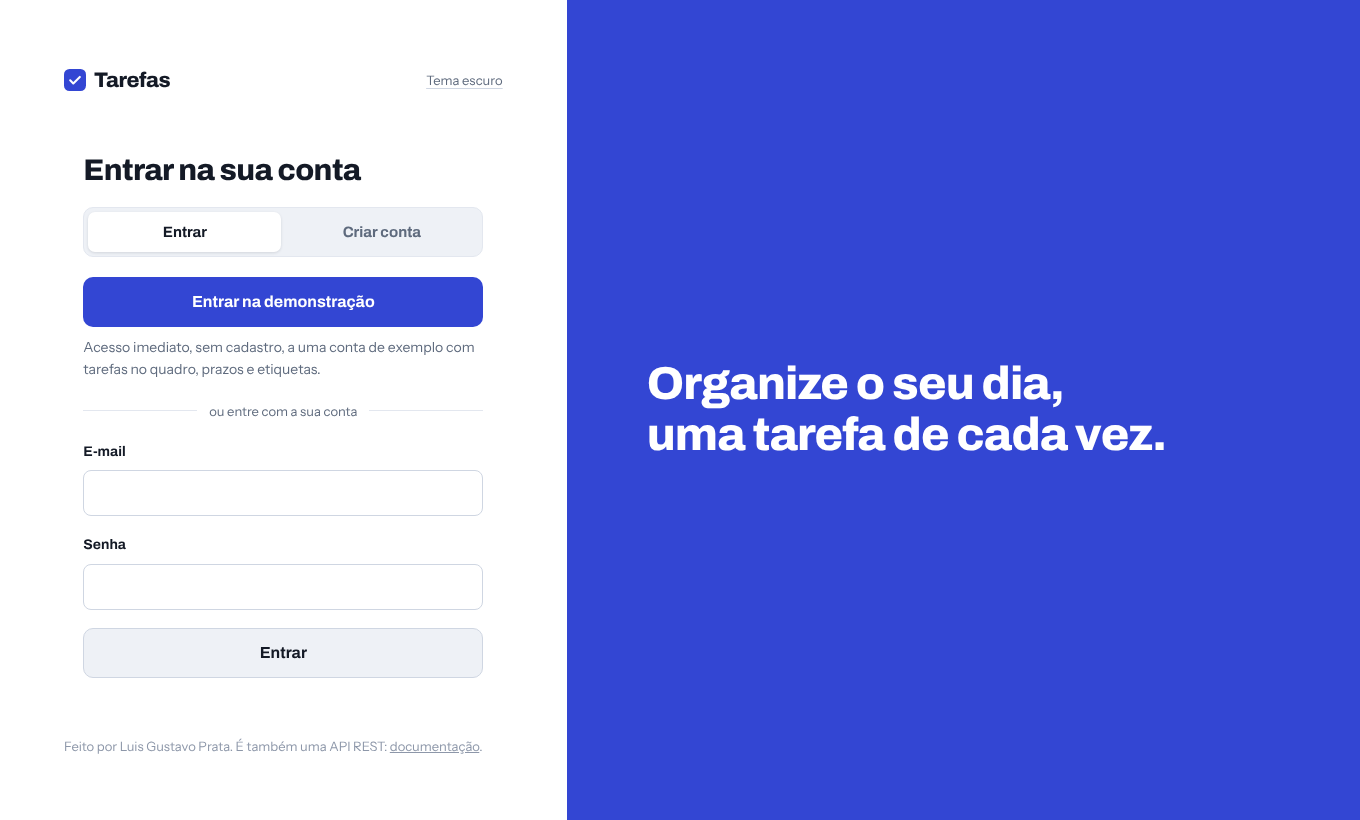
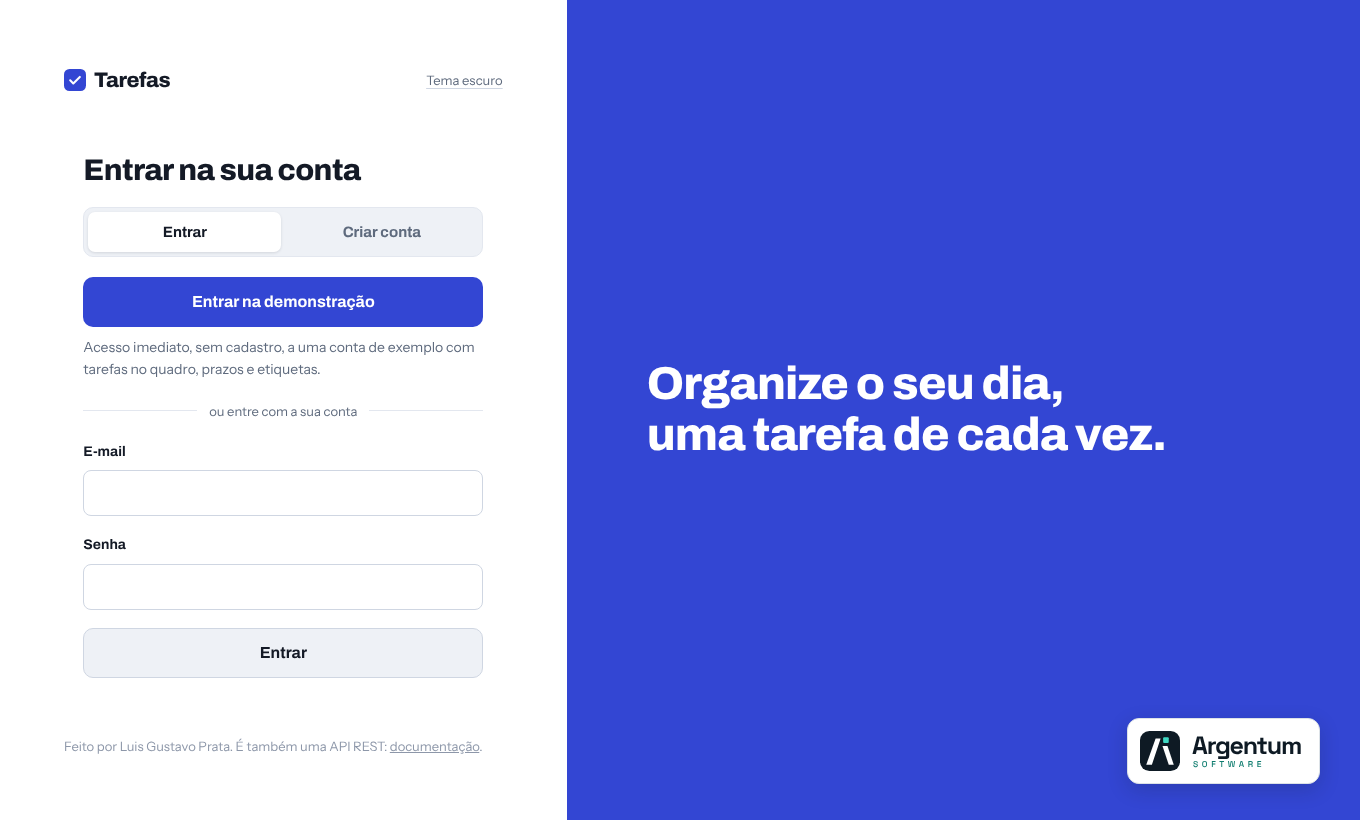
Entrada: marca Argentum Software no canto inferior direito
Versão clara no tema claro e versão escura no tema escuro.

Claude-Session: https://claude.ai/code/session_01LiHwS4HZUZgBoyyaKq9JBM

Changed region(s): [[0.8029, 0.8537, 0.9882, 0.9756]]

diff --git a/app/static/app.css b/app/static/app.css
@@ -157,6 +157,28 @@ svg { flex: none; width: 16px; height: 16px; }
   display: flex; flex-direction: column; justify-content: center; gap: 28px;
 }
 :root[data-theme="dark"] .auth__right { background: #1b2565; }
+
+/* Marca Argentum Software no canto inferior direito */
+.auth { position: relative; }
+.argentum {
+  position: absolute; right: clamp(20px, 3vw, 40px); bottom: clamp(20px, 3vw, 36px);
+  display: inline-flex; align-items: center; gap: 12px; padding: 12px 18px 12px 12px;
+  border-radius: 12px; font-family: "Space Grotesk", var(--text);
+  /* versão clara */
+  background: #ffffff; border: 1px solid #dce2e7; color: #0e1a24;
+  box-shadow: 0 6px 20px rgba(14, 26, 36, 0.18);
+}
+.argentum__icon { width: 40px; height: 40px; flex: none; }
+.argentum__tile { fill: #0e1a24; }
+.argentum__leg { fill: #ffffff; }
+.argentum__pixel { fill: #3fd8c2; }
+.argentum__words { display: grid; gap: 3px; }
+.argentum__name { font-size: 25px; font-weight: 700; letter-spacing: -0.05em; line-height: 0.9; }
+.argentum__sub { font-size: 8.5px; font-weight: 500; letter-spacing: 0.42em; line-height: 1; color: #0e7c6e; padding-left: 1px; }
+/* versão escura: sem o quadrado, o A fica direto no fundo grafite */
+:root[data-theme="dark"] .argentum { background: #0e1a24; border-color: #22313f; color: #ffffff; box-shadow: 0 6px 20px rgba(0, 0, 0, 0.35); }
+:root[data-theme="dark"] .argentum__tile { fill: none; }
+:root[data-theme="dark"] .argentum__sub { color: #3fd8c2; }
 .auth__slogan { max-width: 22ch; text-wrap: balance; color: #fff; font-family: var(--display); font-weight: 800; font-size: clamp(32px, 3.4vw, 52px); line-height: 1.1; letter-spacing: -0.02em; }
 
 /* Prévia do quadro na entrada (sempre clara, sobre o azul) */
@@ -381,8 +403,9 @@ kbd { font-family: var(--text); font-size: 12px; font-weight: 600; padding: 0 5p
 }
 
 @media (max-width: 860px) {
-  .auth { grid-template-columns: minmax(0, 1fr); }
+  .auth { grid-template-columns: minmax(0, 1fr); background: var(--panel); }
   .auth__right { display: none; }
+  .argentum { position: static; justify-self: end; margin: 0 20px 20px; }
   .app { grid-template-columns: minmax(0, 1fr); }
   .side {
     position: fixed; inset: 0 auto 0 0; width: min(280px, 84vw); z-index: 40; background: var(--panel);

diff --git a/app/static/app.js b/app/static/app.js
@@ -223,6 +223,30 @@ function themeLabel() {
   return isDark() ? "Tema claro" : "Tema escuro";
 }
 
+/**
+ * Marca da Argentum Software no canto da tela de entrada. Tema claro usa a versão clara
+ * (fundo branco, letras escuras); tema escuro, a versão escura (fundo grafite, letras brancas).
+ */
+function argentumMark() {
+  const svg = (tag, attrs) => {
+    const node = document.createElementNS("http://www.w3.org/2000/svg", tag);
+    for (const [k, v] of Object.entries(attrs)) node.setAttribute(k, v);
+    return node;
+  };
+  const icon = svg("svg", { viewBox: "0 0 64 64", class: "argentum__icon", "aria-hidden": "true" });
+  icon.append(
+    svg("rect", { class: "argentum__tile", x: 0, y: 0, width: 64, height: 64, rx: 15 }),
+    svg("polygon", { class: "argentum__leg", points: "10,54 25,12 33,12 19,54" }),
+    svg("polygon", { class: "argentum__leg", points: "36,24 44,24 54,54 46,54" }),
+    svg("rect", { class: "argentum__pixel", x: 37, y: 10, width: 9, height: 9, rx: 1.5 }),
+  );
+  return h("div", { class: "argentum", role: "img", "aria-label": "Argentum Software" },
+    icon,
+    h("span", { class: "argentum__words", "aria-hidden": "true" },
+      h("span", { class: "argentum__name" }, "Argentum"),
+      h("span", { class: "argentum__sub" }, "SOFTWARE")));
+}
+
 function renderAuth(mode = "login") {
   document.title = "Entrar | Tarefas";
   const isLogin = mode === "login";
@@ -289,7 +313,8 @@ function renderAuth(mode = "login") {
         form),
       h("p", { class: "auth__foot" }, "Feito por Luis Gustavo Prata. É também uma API REST: ", h("a", { href: "/docs" }, "documentação"), ".")),
     h("section", { class: "auth__right", "aria-label": "Sobre o site" },
-      h("p", { class: "auth__slogan" }, "Organize o seu dia,", h("br"), "uma tarefa de cada vez."))));
+      h("p", { class: "auth__slogan" }, "Organize o seu dia,", h("br"), "uma tarefa de cada vez.")),
+    argentumMark()));
 }
 
 /* ===================== 4. App ===================== */

diff --git a/app/static/index.html b/app/static/index.html
@@ -18,7 +18,7 @@
   </script>
   <link rel="preconnect" href="https://fonts.googleapis.com">
   <link rel="preconnect" href="https://fonts.gstatic.com" crossorigin>
-  <link rel="stylesheet" href="https://fonts.googleapis.com/css2?family=Archivo:wght@500;600;700;800&family=Instrument+Sans:wght@400;500;600&display=swap">
+  <link rel="stylesheet" href="https://fonts.googleapis.com/css2?family=Archivo:wght@500;600;700;800&family=Instrument+Sans:wght@400;500;600&family=Space+Grotesk:wght@500;700&display=swap">
   <link rel="stylesheet" href="/static/app.css">
 </head>
 <body>
